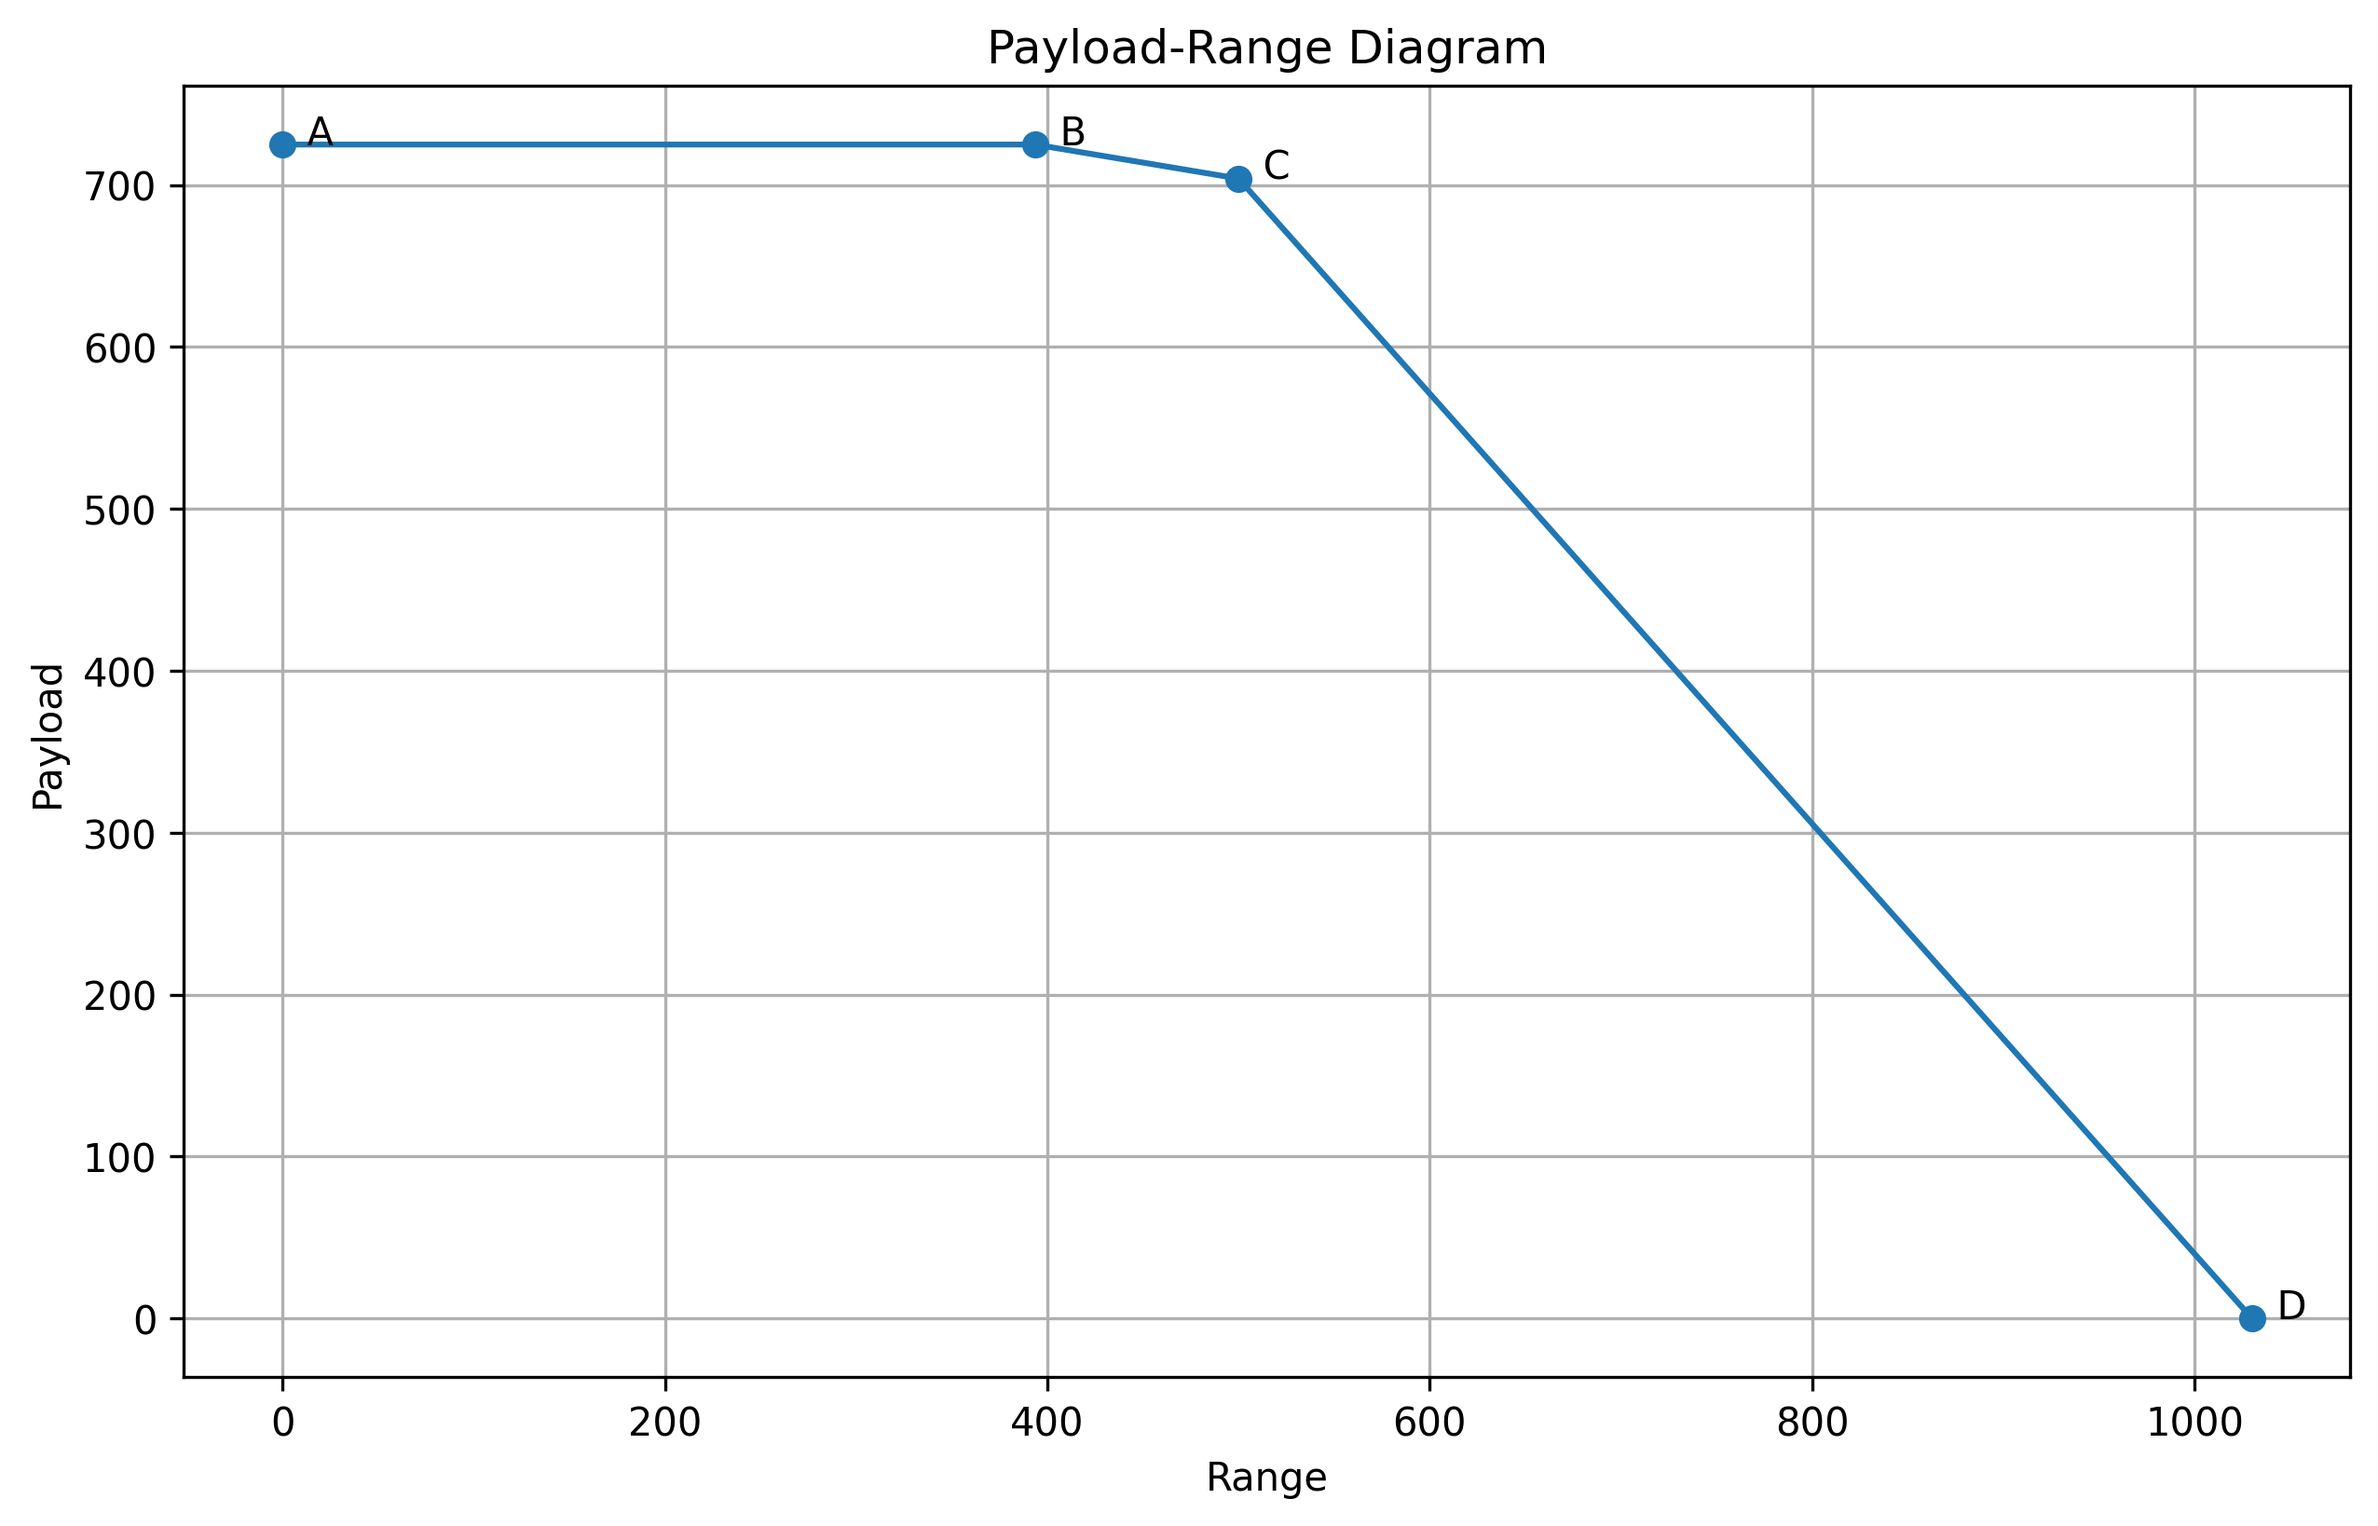
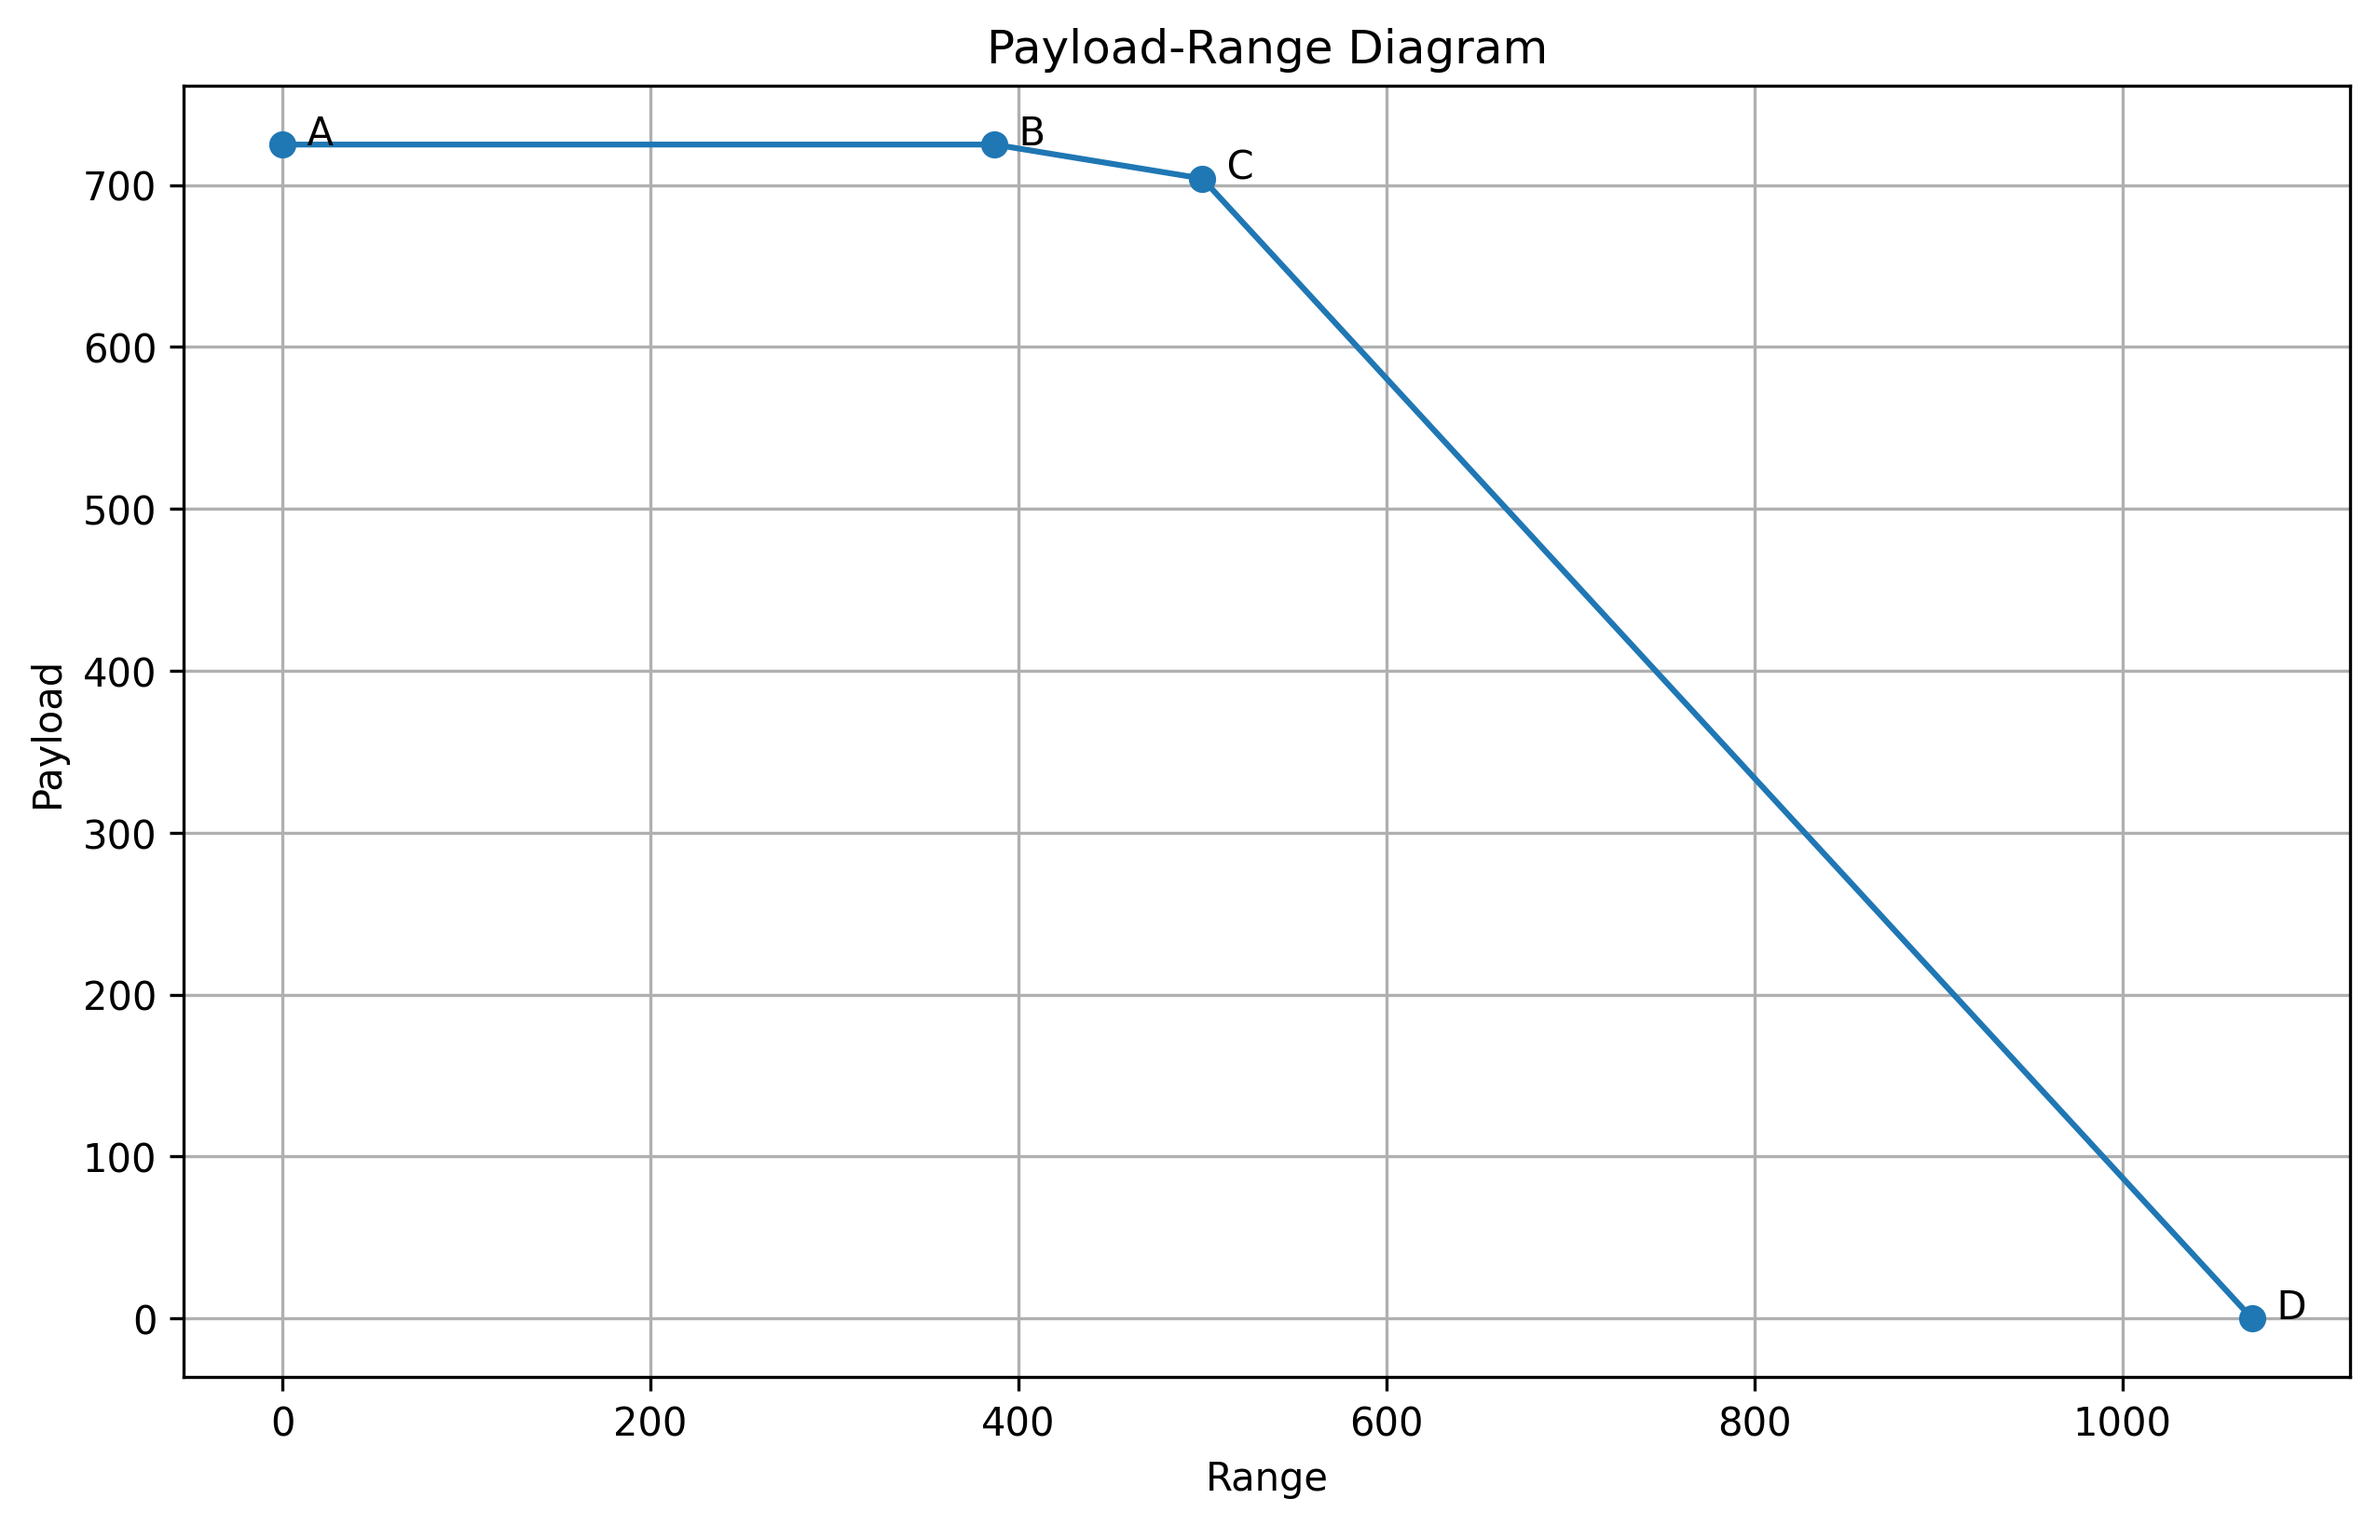
Payload-range update

diff --git a/performance_diagrams/payload_range.py b/performance_diagrams/payload_range.py
@@ -10,7 +10,8 @@ from pathlib import Path
 def calculate_payload_range_parameters(m_pl, m_pl_max, R_design, eta_eng, eta_p, A, e, C_d0, h_cr, V_cr, e_f, me_mto):
 
     cl_cd = 0.5 * math.sqrt(math.pi * A * e / C_d0)
-
+    print(f"ClCd: {cl_cd}")
+    # cl_cd = 11.9
     R_lost = 1 / 0.7 * cl_cd * (h_cr + V_cr ** 2 / (2 * g))
 
     t_e = 45 * 60
@@ -23,6 +24,7 @@ def calculate_payload_range_parameters(m_pl, m_pl_max, R_design, eta_eng, eta_p,
     m_e = me_mto * m_mto
     m_f = mf_mto * m_mto
 
+    print(f"Fuel mass fraction: {mf_mto}")
     print(f"Empty mass: {m_e}")
     print(f"Fuel mass: {m_f}")
     print(f"Payload mass: {m_pl}")
@@ -81,16 +83,18 @@ if __name__ == '__main__':
 
     m_pl = 704
     m_pl_max = 725  # m_pl * 1.03
+
     R_design = 500 * 1000
+
     eta_eng = 0.2 # 0.25 piston / 0.2 turboprop
     eta_p = 0.8
     A = 9
     e = 0.7996
     C_d0 = 0.04
     h_cr = 2590
-    V_cr = 77
+    V_cr = 68
     e_f = 43000000
-    me_mto = 0.52 # 0.62 for boosted piston / 0.52 for boosted turboprop - 0.02 added for supercapacitor
+    me_mto = 0.497 # 0.62 for boosted piston / 0.52 for boosted turboprop - 0.02 added for supercapacitor
 
     payload_range_points = calculate_payload_range_parameters(m_pl, m_pl_max, R_design, eta_eng, eta_p, A, e, C_d0, h_cr, V_cr, e_f, me_mto)
     plot_payload_range(payload_range_points)
